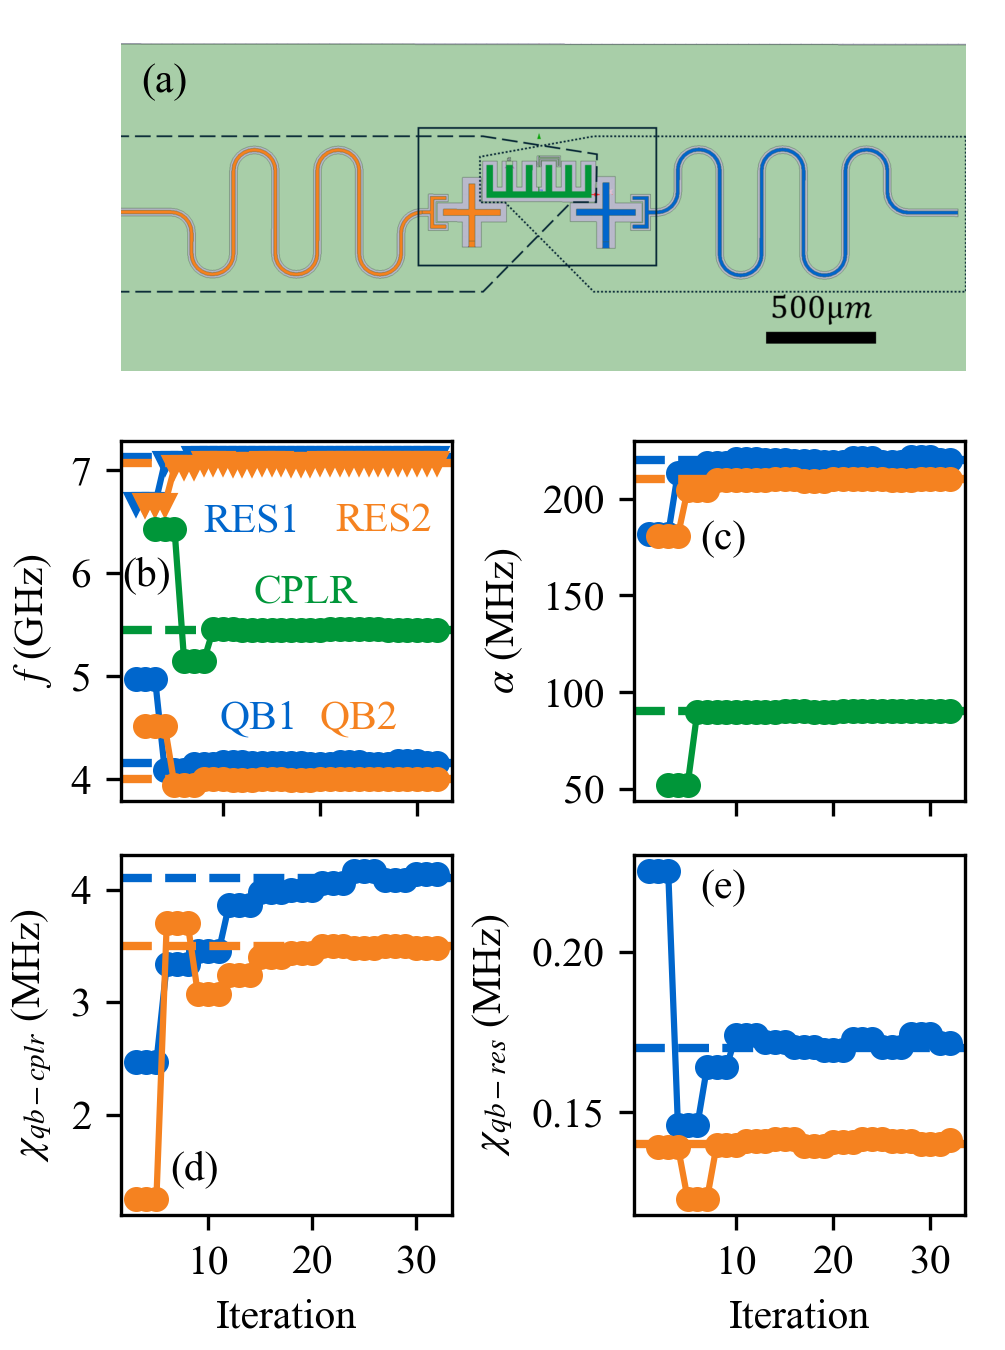
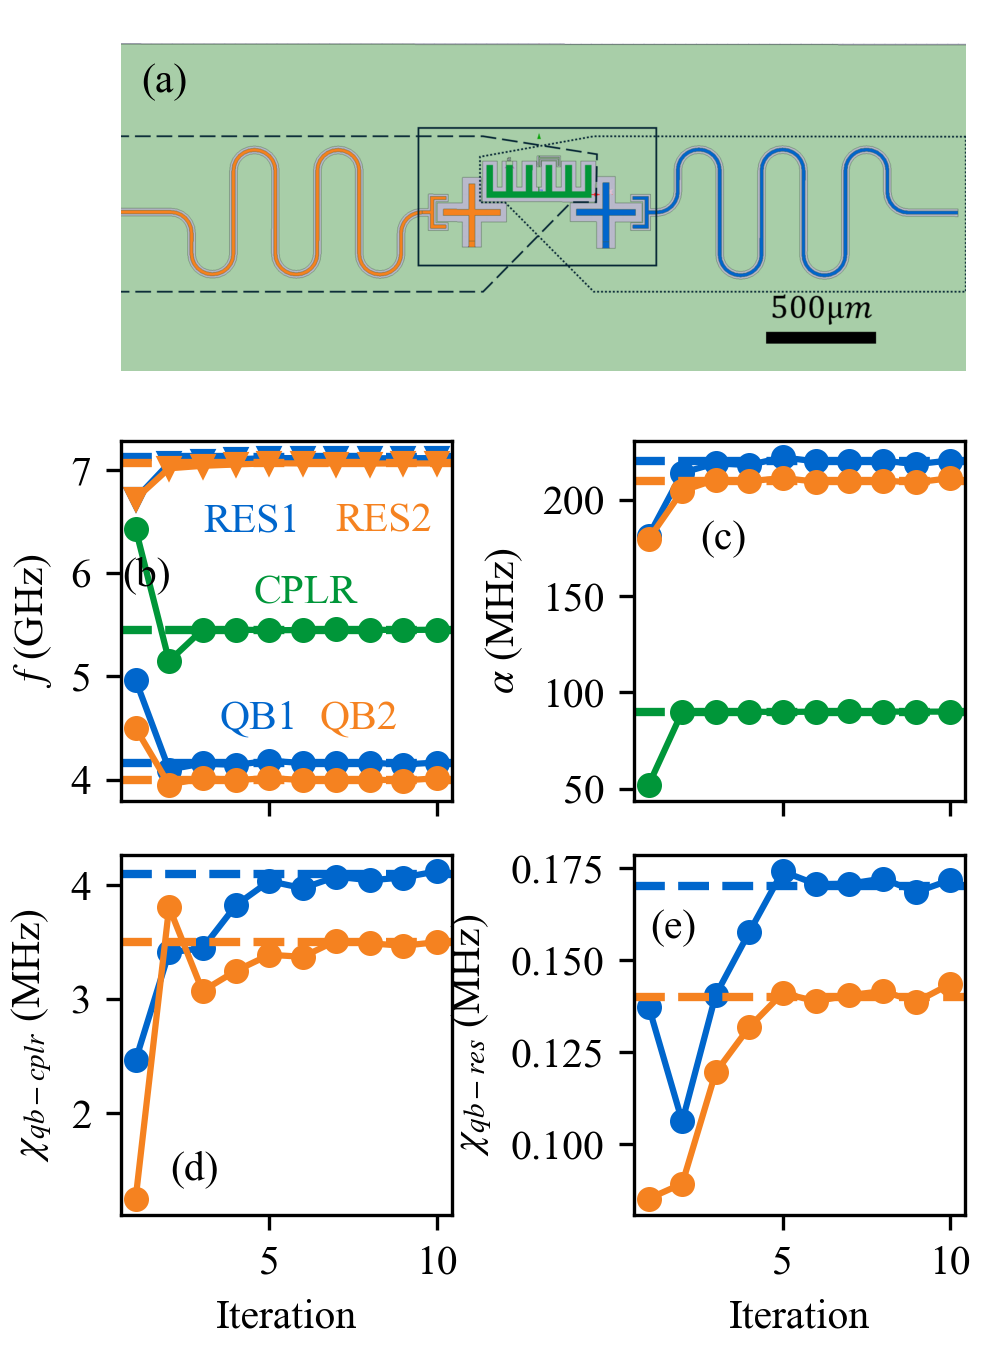
update figures

diff --git a/tutorials/example_clusters_anmod_scaliability/visualize_convergence_from_100_seeds.py b/tutorials/example_clusters_anmod_scaliability/visualize_convergence_from_100_seeds.py
@@ -150,8 +150,8 @@ def make_publication_plot(values, save_dir=None, show_plot=True):
     stats = _classify_runs(values)
     seed_idx = np.arange(len(values))
 
-    fig, ax = plt.subplots(1, 1, figsize=(3.5 * 6.7, 3.5 * 3.35))
-    fig.subplots_adjust(left=0.10, right=0.99, bottom=0.14, top=0.97)
+    fig, ax = plt.subplots(1, 1, figsize=(3.5 * 3.35, 3.5 * 3.35))
+    fig.subplots_adjust(left=0.18, right=0.98, bottom=0.15, top=0.97)
 
     # Seed-wise performance map
     ax.scatter(
@@ -192,7 +192,7 @@ def make_publication_plot(values, save_dir=None, show_plot=True):
     ax.set_ylabel("Converged parameters")
     ax.set_ylim(2000, 3010)
     ax.grid(True, alpha=0.3)
-    ax.legend(loc="lower left", fontsize=24, frameon=False)
+    ax.legend(loc="center left", fontsize=20, frameon=False)
 
     if save_dir is None:
         save_dir = Path(__file__).resolve().parent / "out"
@@ -200,7 +200,7 @@ def make_publication_plot(values, save_dir=None, show_plot=True):
         save_dir = Path(save_dir)
     save_dir.mkdir(parents=True, exist_ok=True)
 
-    png_path = save_dir / "convergence_100_seeds_publication.png"
+    png_path = save_dir / "FigS7_convergence_100_seeds.png"
     fig.savefig(png_path, dpi=600)
 
     print(f"Saved: {png_path}")

diff --git a/src/qdesignoptimizer/design_analysis.py b/src/qdesignoptimizer/design_analysis.py
@@ -80,7 +80,9 @@ class DesignAnalysis:
         minimization_tol=1e-12,
     ):
         self.design_analysis_version = qdesignoptimizer.__version__
-        self.state = state
+        self.state = (
+            state  # the system_optimized_params will be synced with the injected state
+        )
         self.design = state.design
         self.eig_solver = EPRanalysis(self.design, "hfss")
         self.eig_solver.sim.setup.name = "Resonator_setup"